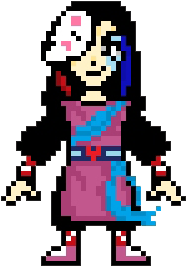
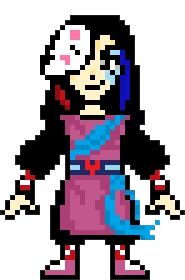
fixed animation

Changed region(s): [[0.0, 0.0, 1.0, 1.0], [0.3784, 0.7491, 0.4054, 0.779]]

diff --git a/src/sample/Main.java b/src/sample/Main.java
@@ -28,7 +28,7 @@ public class Main extends Application {
     private Pane gameRoot = new Pane();
     private Pane uiRoot = new Pane();
 
-    private Node player;
+    private ImageView player;
     private Point2D playerVelocity = new Point2D(0, 0);
     private boolean canJump = true;
 
@@ -37,6 +37,8 @@ public class Main extends Application {
 
     private int playerWidth;
     private int playerHeight;
+    private int playerX;
+    private int playerY;
 
     private boolean dialogEvent = false, running = true;
 
@@ -89,15 +91,12 @@ public class Main extends Application {
             changeSpriteImg(player, "sample/resources/img/playerv2.png");
         }
         if(animationtick == 120){
-            changeSpriteImg(player, "sample/resources/img/player.png");
             animationtick = 0;
+            changeSpriteImg(player, "sample/resources/img/player.png");
         }
     }
 
     private void update() {
-        //        if(tick % 60 == 0){
-//            second++;
-//        }
         globaltick++;
         animationtick++;
         playerAnimation(animationtick);
@@ -173,21 +172,15 @@ public class Main extends Application {
         }
     }
 
-    private void changeSpriteImg(Node sprite, String path){
-        gameRoot.getChildren().removeAll(player);
-        player = createSprite((int)player.getTranslateX(), (int)player.getTranslateY(), playerWidth, playerHeight, path);
-        gameRoot.getChildren().add(player);
+    private void changeSpriteImg(ImageView sprite, String path){
+        Image image = new Image(path);
+        sprite.setImage(image);
     }
 
-    private Node createSprite(int x, int y, int w, int h, String path) {
-        Image img = new Image(path);
-        ImageView sprite = new ImageView(img);
-        sprite.setFitHeight(h);
-        sprite.setFitWidth(w);
-        sprite.setTranslateX(x);
-        sprite.setTranslateY(y);
-        sprite.getProperties().put("alive", true);
 
+    private ImageView createSprite(int x, int y, int w, int h, String path){
+        Sprite spriteObj = new Sprite(x, y, w, h, path);
+        ImageView sprite = spriteObj.createSprite();
         gameRoot.getChildren().add(sprite);
         return sprite;
     }

diff --git a/src/sample/SpriteAnimation.java b/src/sample/SpriteAnimation.java
@@ -1,0 +1,61 @@
+//package sample;
+//
+//import javafx.animation.Animation;
+//import javafx.animation.Interpolator;
+//import javafx.animation.Transition;
+//import javafx.geometry.Rectangle2D;
+//import javafx.scene.image.Image;
+//import javafx.scene.image.ImageView;
+//import javafx.util.Duration;
+//
+//public class SpriteAnimation extends Transition{
+//
+//    private final ImageView imageView;
+//    private final int count;
+//    private final int columns;
+//    private int offsetX;
+//    private int offsetY;
+//    private final int width;
+//    private final int height;
+//
+//    @Override
+//    protected void interpolate(double frac) {
+//        final int index = Math.min((int)Math.floor(count*frac), count -1);
+//        final int x = (index%columns)*width+offsetX;
+//        final int y = (index/columns)*height+offsetY;
+//        imageView.setViewport(new Rectangle2D(x, y, width, height));
+//    }
+//
+//    public SpriteAnimation(
+//            ImageView imageView,
+//            Duration duration,
+//            int count,
+//            int columns,
+//            int offsetX,
+//            int offsetY,
+//            int width,
+//            int height
+//    ){
+//        this.imageView = imageView;
+//        this.count = count;
+//        this.columns = columns;
+//        this.offsetX = offsetX;
+//        this.offsetY = offsetY;
+//        this.width = width;
+//        this.height = height;
+//
+//        //method
+//        setCycleDuration(duration);
+//        setCycleCount(Animation.INDEFINITE);
+//        setInterpolator(Interpolator.LINEAR);
+//        this.imageView.setViewport(new Rectangle2D(offsetX, offsetY, width, height));
+//    }
+//
+//    public void setOffsetX(int x){
+//        this.offsetX = x;
+//    }
+//
+//    public void setOffsetY(int y){
+//        this.offsetY = y;
+//    }
+//}

diff --git a/src/sample/Sprite.java b/src/sample/Sprite.java
@@ -1,0 +1,37 @@
+package sample;
+
+import javafx.scene.image.Image;
+import javafx.scene.image.ImageView;
+
+import javax.swing.text.Element;
+
+public class Sprite {
+    private int h;
+    private int w;
+    private int x;
+    private int y;
+    private String path;
+
+    ImageView sprite;
+
+    public Sprite(int x, int y, int w, int h, String path) {
+        this.x = x;
+        this.y = y;
+        this.w = w;
+        this.h = h;
+        this.path = path;
+    }
+
+    public ImageView createSprite(){
+        Image img = new Image(path);
+        sprite = new ImageView(img);
+        sprite.setFitHeight(h);
+        sprite.setFitWidth(w);
+        sprite.setTranslateX(x);
+        sprite.setTranslateY(y);
+        sprite.getProperties().put("alive", true);
+
+        return sprite;
+    }
+
+}
